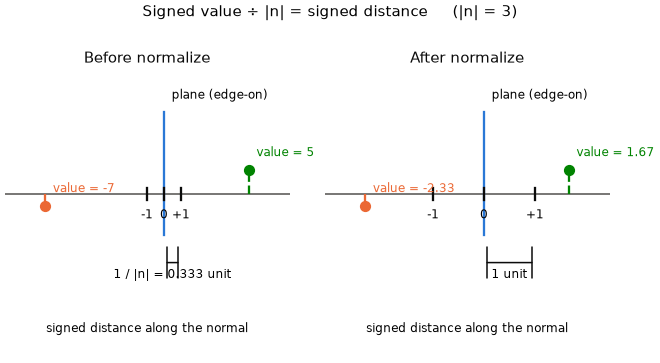
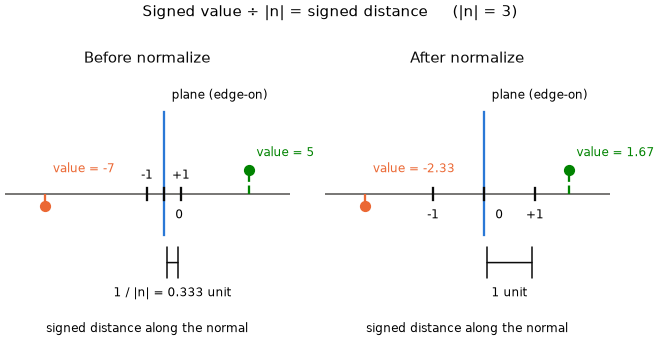
math: separate geometry figure labels

diff --git a/launcher/tools/math/geometry_figures.py b/launcher/tools/math/geometry_figures.py
@@ -69,8 +69,13 @@ DISTANCE_PLANE_EXTENT = 1.6
 DISTANCE_TICK_HEIGHT = 0.12
 DISTANCE_SAMPLE_OFFSET = (5, 9)
 DISTANCE_VALUE_OFFSET = (0, -16)
+DISTANCE_UPPER_TICK_OFFSET = (0, 10)
+DISTANCE_ZERO_OFFSET = (10, -16)
+DISTANCE_NEGATIVE_SAMPLE_OFFSET = (5, 22)
+DISTANCE_BRACKET_LABEL_OFFSET = (0, -16)
 DISTANCE_STEP_Y = -1.35
 DISTANCE_MARGIN = 0.8
+SEGMENT_ZOOM = 0.9
 
 
 def panels(projection=None):
@@ -169,7 +174,7 @@ def legend(fig, entries, patches=False):
                fontsize=LABEL_SIZE, ncol=PANELS, frameon=False)
 
 
-def orbit(fig, axes, output, labels=(), azimuth=None, elevation=VIEW_ELEVATION):
+def orbit(fig, axes, output, labels=(), azimuth=None, elevation=VIEW_ELEVATION, label_colors=None):
     annotations = []
 
     def draw(frame):
@@ -203,7 +208,8 @@ def orbit(fig, axes, output, labels=(), azimuth=None, elevation=VIEW_ELEVATION):
                         offset[0] = (edge - anchor[0]) * POINTS_PER_INCH / fig.dpi
                         align = "left" if on_right else "right"
                     annotation = axis.annotate(text, point, xytext=tuple(offset),
-                        textcoords="offset points", fontsize=LABEL_SIZE, color=INK,
+                        textcoords="offset points", fontsize=LABEL_SIZE,
+                        color=label_colors.get(text, INK) if label_colors else INK,
                         va="bottom", ha=align, annotation_clip=False,
                         arrowprops=dict(arrowstyle="-", color=MUTED, linewidth=LABEL_LEADER_WIDTH),
                         bbox=dict(facecolor="white", edgecolor="none", alpha=LABEL_ALPHA, pad=LABEL_PADDING))
@@ -242,8 +248,10 @@ def distance_figure(data, output):
                       xytext=DISTANCE_SAMPLE_OFFSET, textcoords="offset points", fontsize=LABEL_SIZE)
         for position, value in [*data["rulers"][column], (0, 0)]:
             axis.plot([position, position], [-DISTANCE_TICK_HEIGHT, DISTANCE_TICK_HEIGHT], color=INK)
+            tick_offset = DISTANCE_UPPER_TICK_OFFSET if column == 0 else DISTANCE_VALUE_OFFSET
             axis.annotate(f"{value:+g}" if value else "0", (position, DISTANCE_RULER_Y),
-                          xytext=DISTANCE_VALUE_OFFSET, textcoords="offset points", ha="center", fontsize=LABEL_SIZE)
+                          xytext=tick_offset if value else DISTANCE_ZERO_OFFSET,
+                          textcoords="offset points", ha="center", fontsize=LABEL_SIZE)
         for _point, raw, distance, height in data["samples"]:
             if distance == 0:
                 continue
@@ -251,7 +259,8 @@ def distance_figure(data, output):
             color = SAMPLE_COLORS[int(np.sign(value)) + 1]
             axis.plot([distance, distance], [DISTANCE_RULER_Y, height], color=color, linestyle="--")
             axis.scatter(distance, height, color=color, s=POINT_SIZE)
-            axis.annotate(f"value = {value:.3g}", (distance, height), xytext=DISTANCE_SAMPLE_OFFSET,
+            axis.annotate(f"value = {value:.3g}", (distance, height),
+                          xytext=DISTANCE_NEGATIVE_SAMPLE_OFFSET if value < 0 else DISTANCE_SAMPLE_OFFSET,
                           textcoords="offset points", fontsize=LABEL_SIZE, color=color)
         low, high = min(sample[2] for sample in data["samples"]), max(sample[2] for sample in data["samples"])
         axis.set_xlim(low - DISTANCE_MARGIN, high + DISTANCE_MARGIN)
@@ -259,9 +268,9 @@ def distance_figure(data, output):
         step = data["rulers"][column][1][0]
         axis.annotate("", (0, DISTANCE_STEP_Y), (step, DISTANCE_STEP_Y),
                       arrowprops=dict(arrowstyle="|-|", color=INK))
-        axis.text(step / 2, DISTANCE_STEP_Y - DISTANCE_TICK_HEIGHT,
-                  f"1 / |n| = {step:.3g} unit" if column == 0 else f"{step:g} unit",
-                  ha="center", va="top", fontsize=LABEL_SIZE)
+        axis.annotate(f"1 / |n| = {step:.3g} unit" if column == 0 else f"{step:g} unit",
+                      (step / 2, DISTANCE_STEP_Y), xytext=DISTANCE_BRACKET_LABEL_OFFSET,
+                      textcoords="offset points", ha="center", va="top", fontsize=LABEL_SIZE)
         axis.set_xlabel("signed distance along the normal", fontsize=LABEL_SIZE)
     fig.suptitle(f"Signed value ÷ |n| = signed distance     (|n| = {length:g})", fontsize=TITLE_SIZE)
     save(fig, output)
@@ -402,6 +411,7 @@ def sphere_overlap_figure(data, output):
 def sphere_segments_figure(data, output):
     fig, axes = space_panels(("Segment / closed box", "Segment / closed sphere"))
     labels = []
+    label_colors = {}
     for target, axis in enumerate(axes):
         bounds = list(data["box"])
         if target:
@@ -410,19 +420,21 @@ def sphere_segments_figure(data, output):
             bounds.extend((np.array(centre) - radius, np.array(centre) + radius))
         else:
             draw_box(axis, data["box"])
-        for (a, c, results), color in zip(data["segments"], SLOTS):
+        for number, ((a, c, results), color) in enumerate(zip(data["segments"], SLOTS), start=1):
             hit, t, point = results[target]
             axis.plot(*np.array([a, c]).T, color=color, linestyle="-" if hit else "--")
             bounds.extend((a, c))
             if hit:
                 axis.scatter(*point, color=color, s=POINT_SIZE, depthshade=False)
-                label = "inside start (t = 0)" if t == 0 else f"entry (t = {t:.3g})"
-                labels.append((axis, [point], [label]))
+                result = "inside start t = 0" if t == 0 else f"entry t = {t:.3g}"
             else:
-                labels.append((axis, [c], ["miss"]))
-        fit_space(axis, bounds)
-    legend(fig, [("entry / inside start", INK, "o", ""), ("miss", MUTED, "", "--")])
-    orbit(fig, axes, output, labels)
+                result = "miss"
+            label = f"{number}: {result}"
+            labels.append((axis, [a], [label]))
+            label_colors[label] = color
+        fit_space(axis, bounds, zoom=SEGMENT_ZOOM)
+    legend(fig, [("entry point", INK, "o", ""), ("miss (dashed)", MUTED, "", "--")])
+    orbit(fig, axes, output, labels, label_colors=label_colors)
 
 
 def main():
